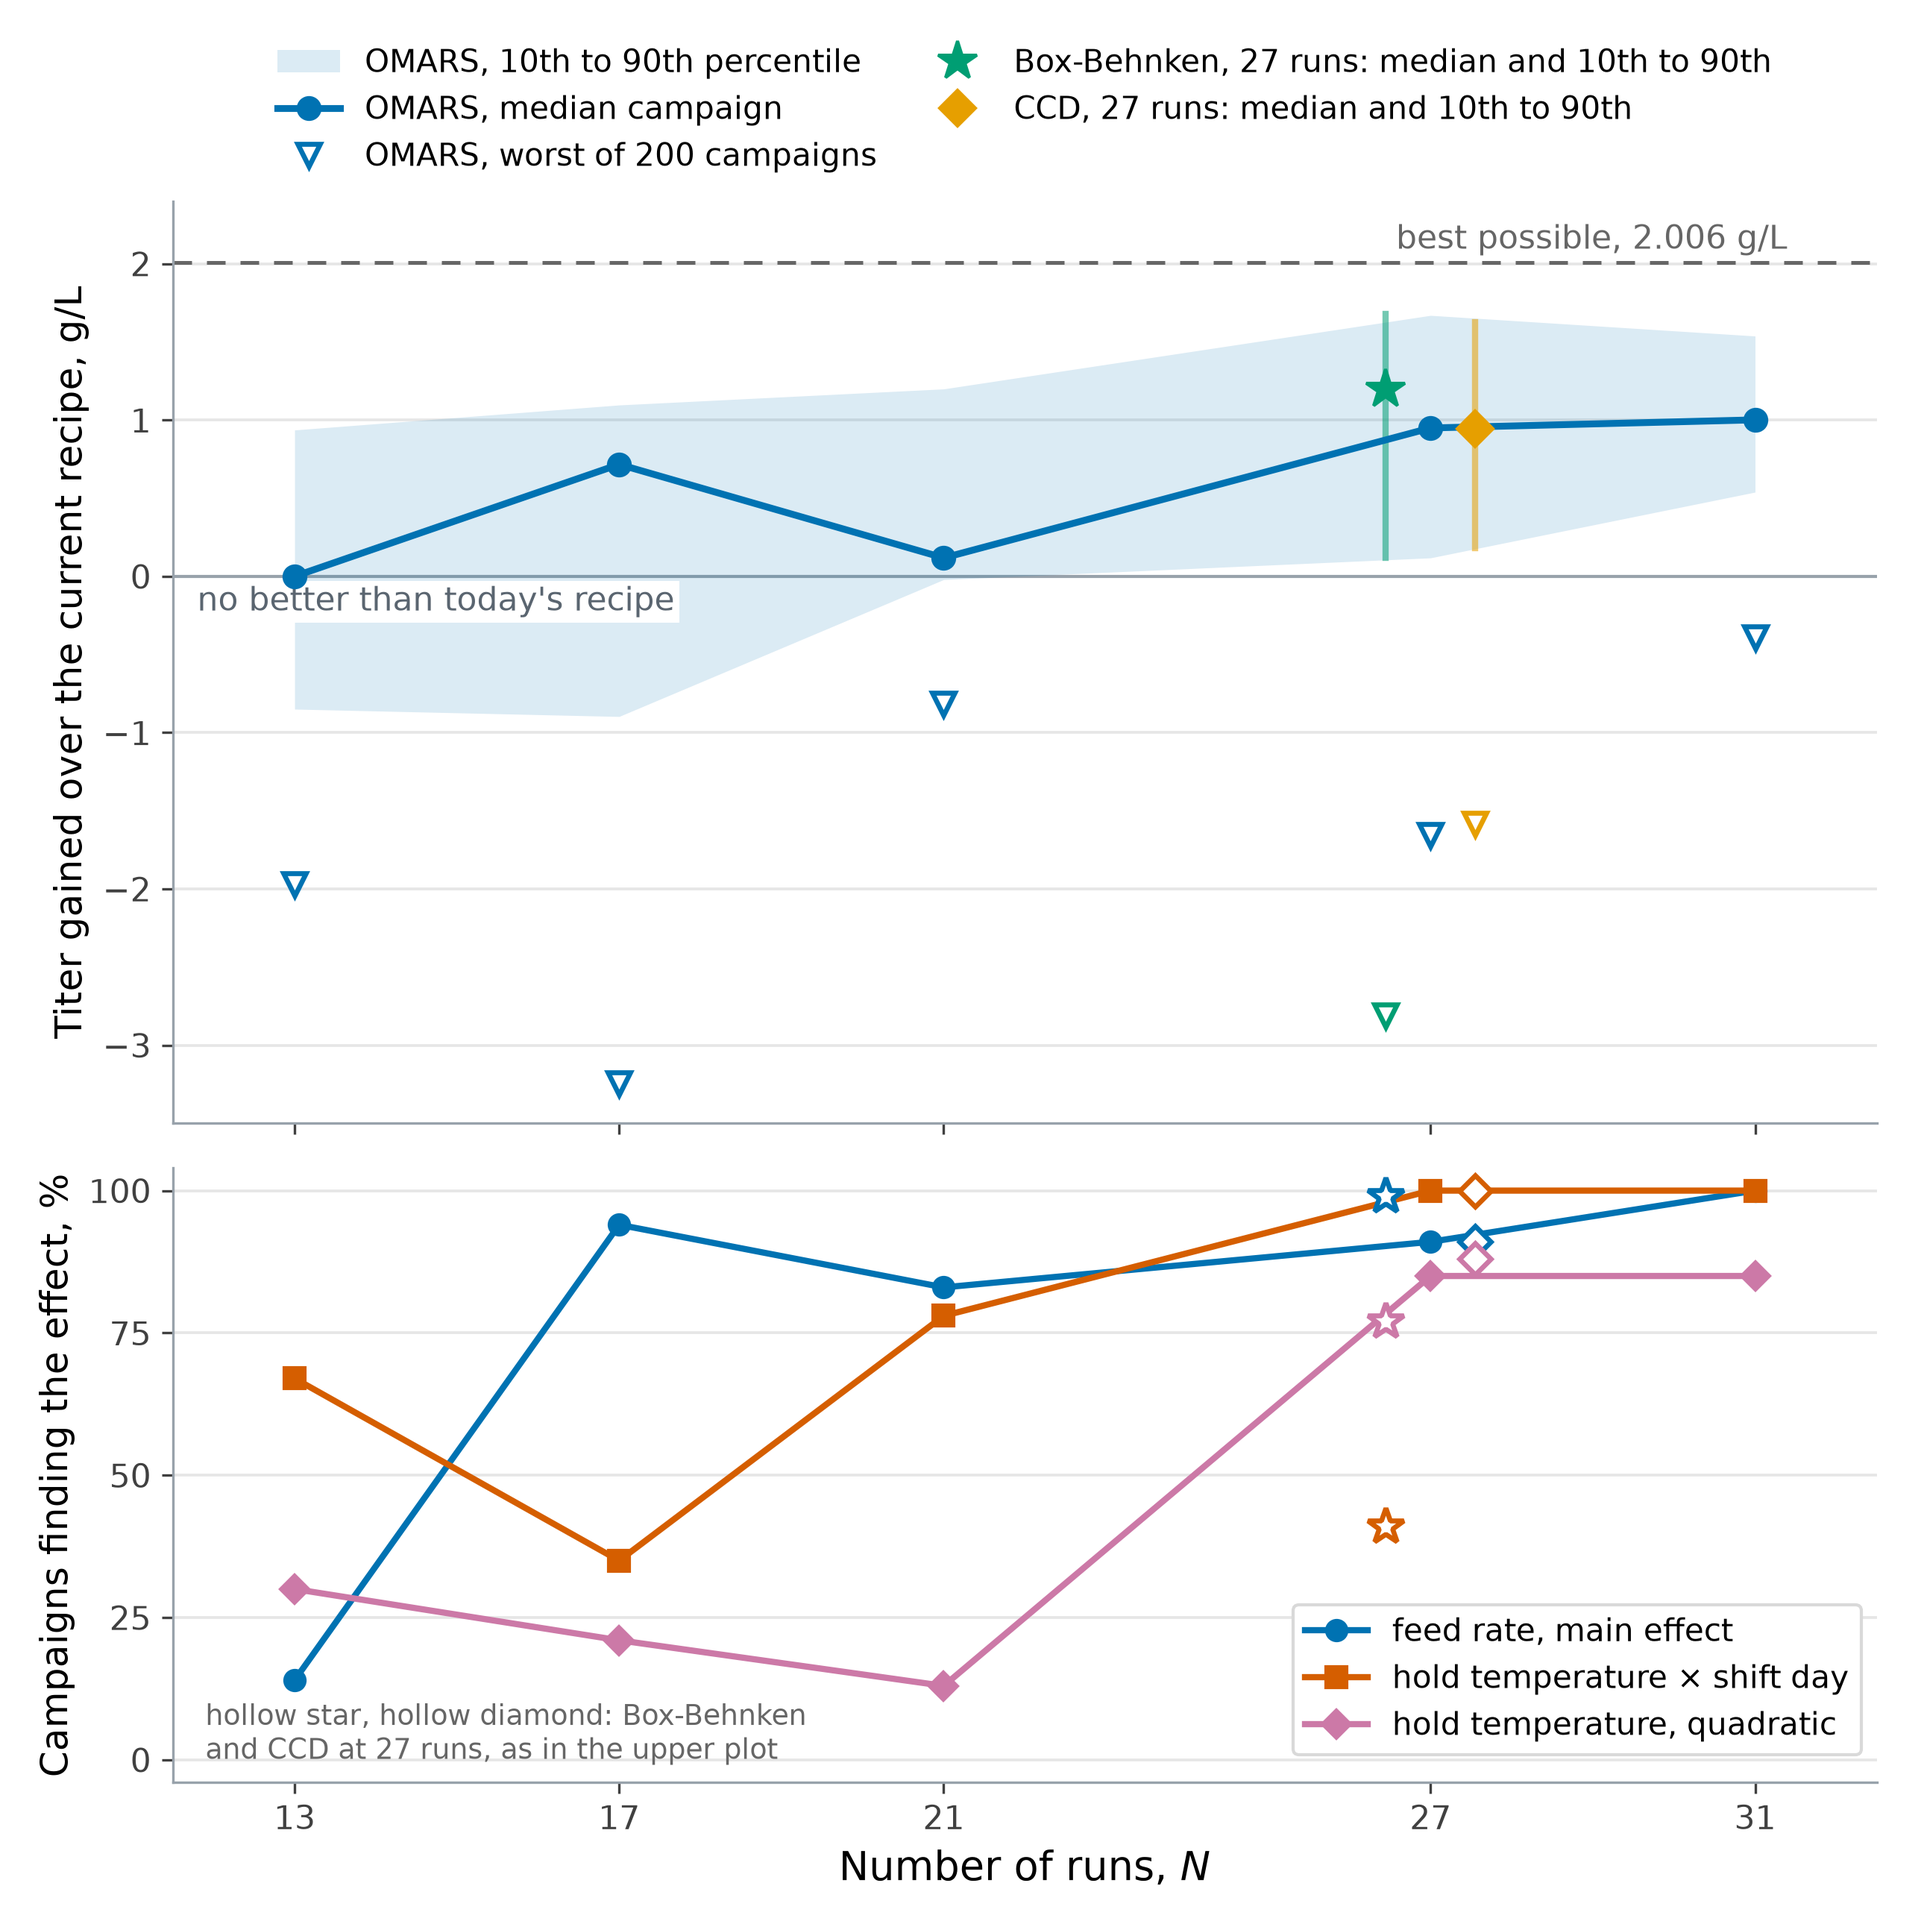
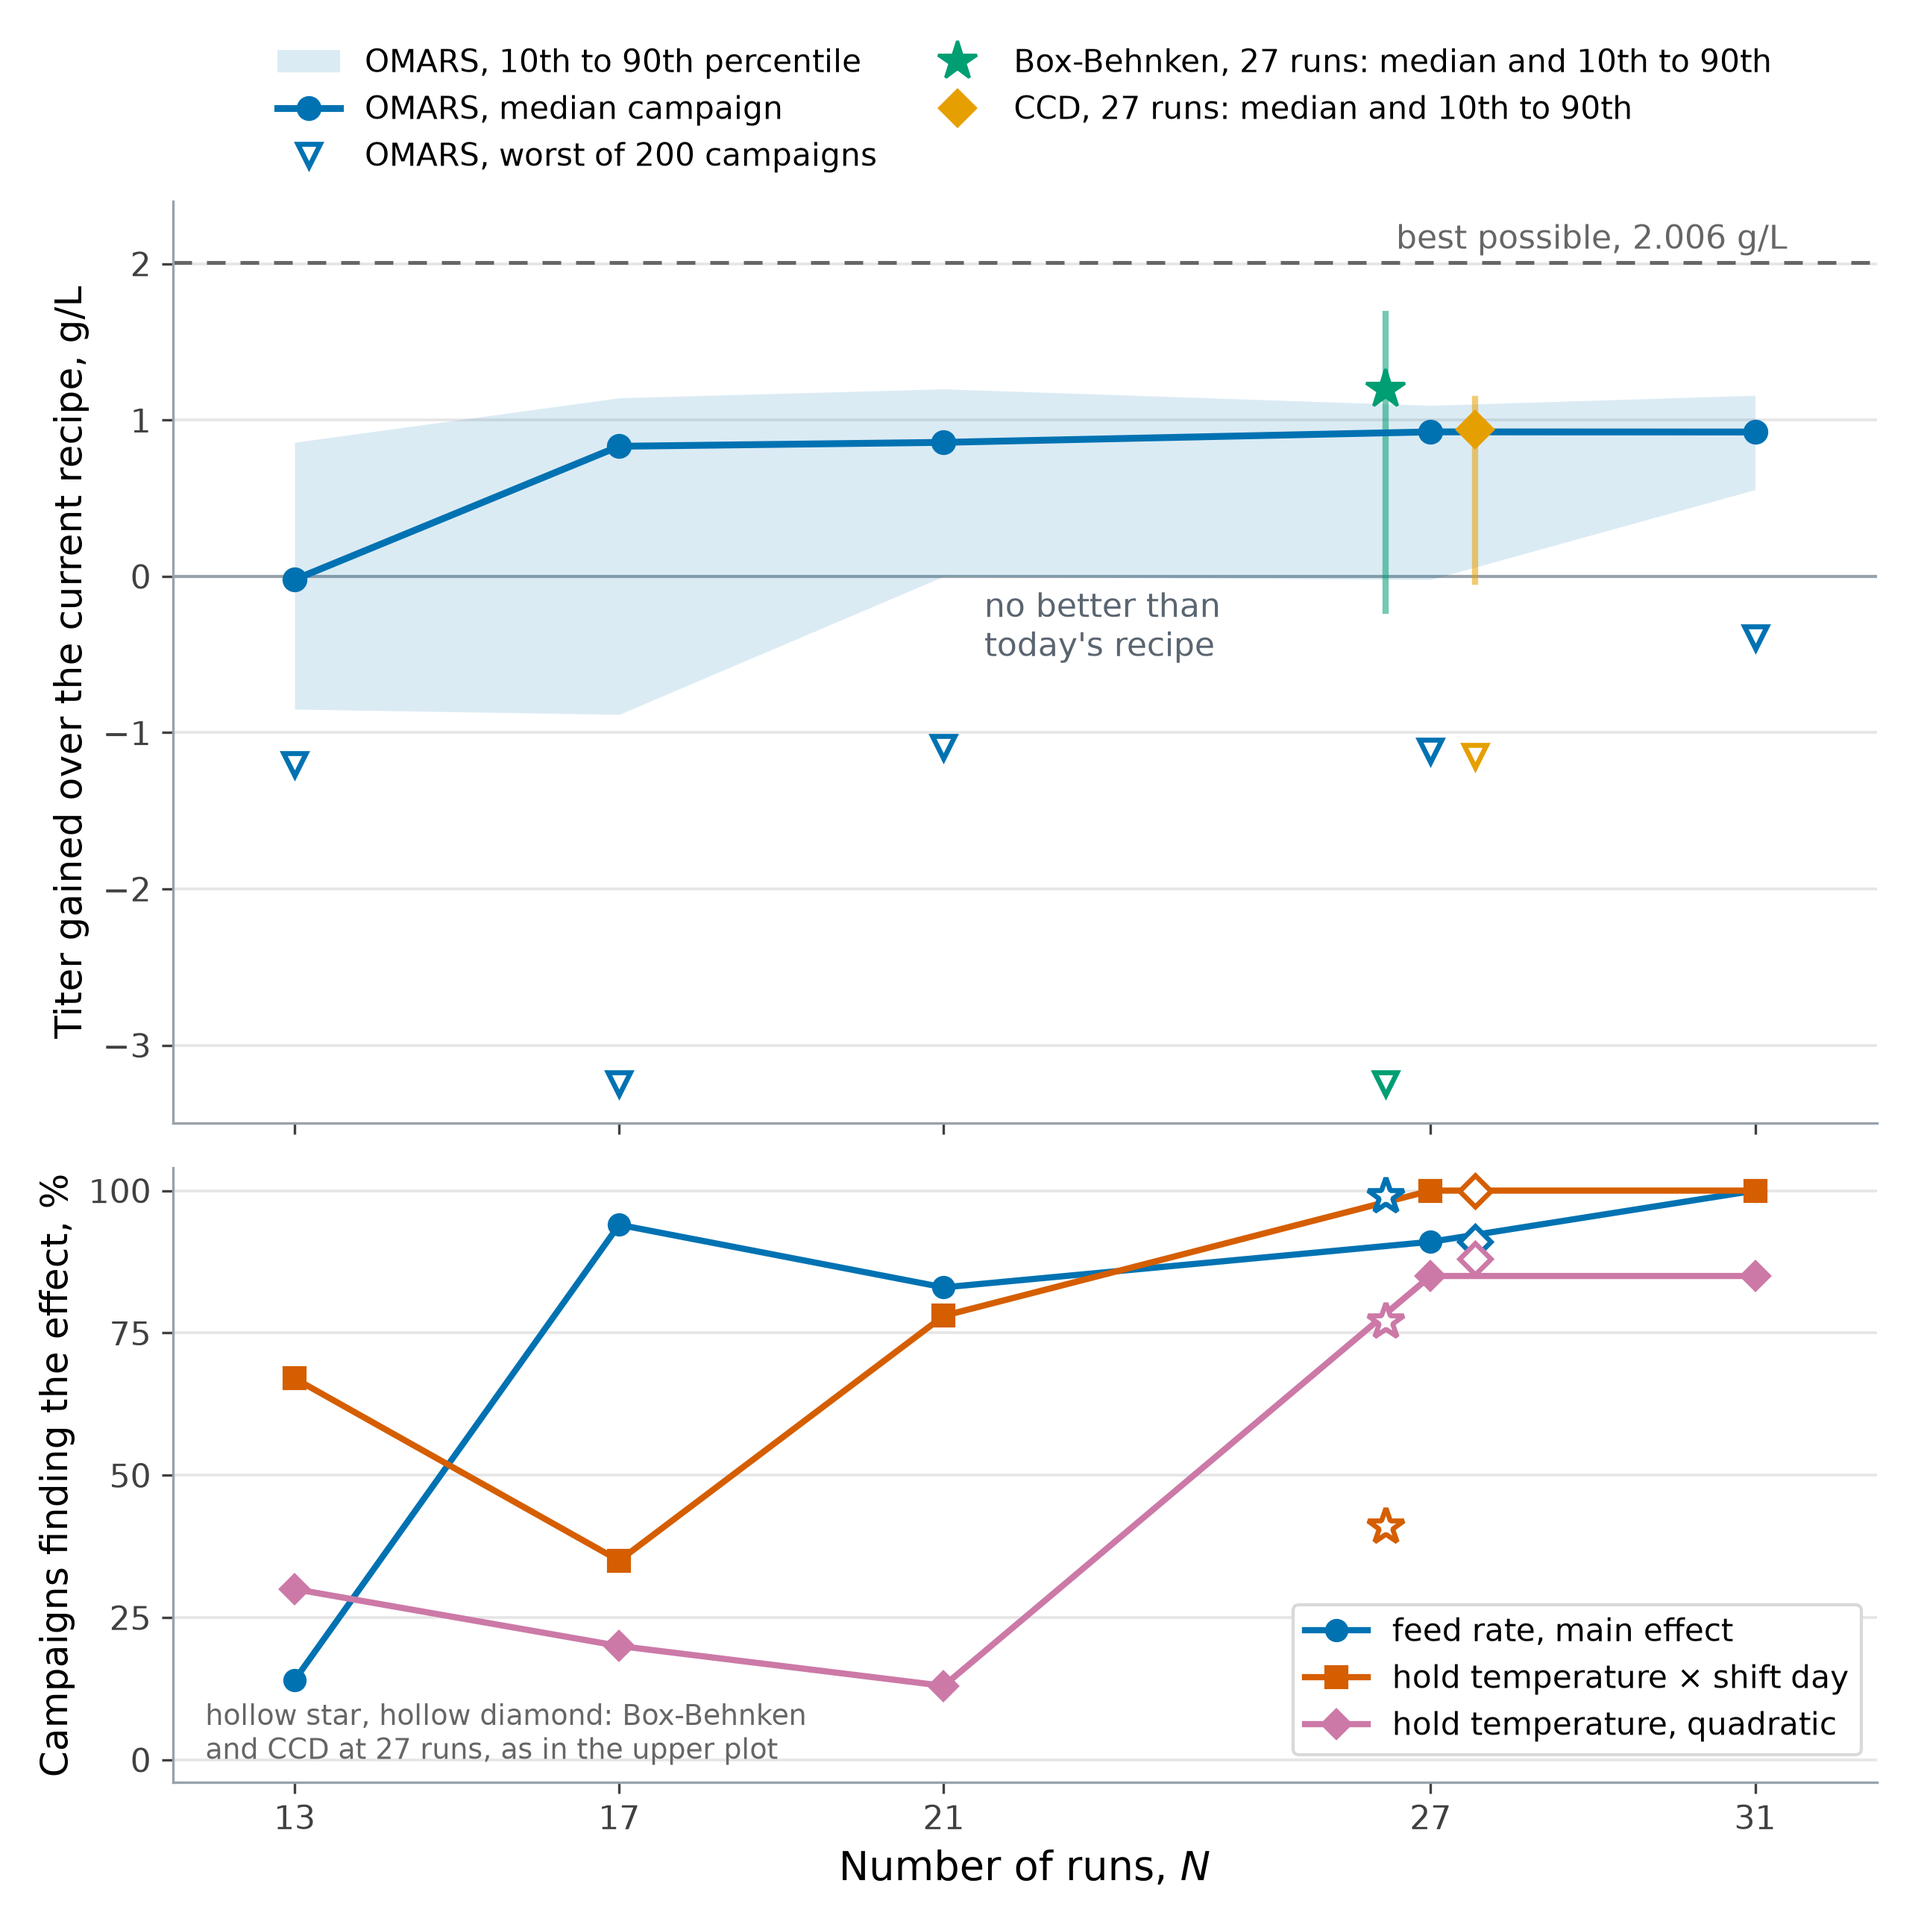
OMARS worked study: find the fitted model's true maximum
The recommended recipe came from scipy's Powell method with bounds, which
stalls once its search directions run into the bounds: on the five-term
model it stopped at a hold of 30.13 C, below the model's maximum at
30.64 C (predicted 8.872 g/L, not 8.662). Every campaign in the trade-off
data used the same search.

The search now evaluates the model at 11 levels per factor and refines
the best point with L-BFGS-B, which keeps to the bounds; a 41-level grid
confirms the maximum for the study's model, its marginal refit and the
best second-order approximation of the process.

- omars_worked_study_common.py: the same search as the book, and the
  checked recommendation (30.64 C, true titer 8.605 g/L).
- omars_worked_study_data.py: the same search for every campaign; the
  literals now print at four significant figures, as the book's table
  quotes them.
- omars-worked-study-tradeoff.py: the regenerated literals, and the
  zero-line label moved off the 13-run band into empty space.
- Both PNGs redrawn with matplotlib's default rc. The effects, plan and
  titer figures do not depend on the recommendation and redraw
  byte-identical.

Claude-Session: https://claude.ai/code/session_01VH72wW3LwaRHo54dV2z5rL

diff --git a/doe/omars-worked-study-tradeoff.py b/doe/omars-worked-study-tradeoff.py
@@ -22,19 +22,19 @@ import matplotlib.pyplot as plt
 # two hundred campaigns per design, and how often each of four real effects was found;
 # the figure plots three of them.
 GAINS = {
-    "OMARS 13": {"runs": 13, "mean": 0.0445, "p10": -0.8496, "p50": 0.0000, "p90": 0.9364, "worst": -1.9725,
+    "OMARS 13": {"runs": 13, "mean": 0.08711, "p10": -0.8497, "p50": -0.02071, "p90": 0.8573, "worst": -1.201,
                  "found": {"feed_rate": 0.14, "hold_temp^2": 0.30, "hold_temp:shift_day": 0.67, "shift_day^2": 0.01}},
-    "OMARS 17": {"runs": 17, "mean": 0.3480, "p10": -0.8967, "p50": 0.7165, "p90": 1.0963, "worst": -3.2462,
-                 "found": {"feed_rate": 0.94, "hold_temp^2": 0.21, "hold_temp:shift_day": 0.35, "shift_day^2": 0.30}},
-    "OMARS 21": {"runs": 21, "mean": 0.3522, "p10": -0.0207, "p50": 0.1181, "p90": 1.1991, "worst": -0.8178,
+    "OMARS 17": {"runs": 17, "mean": 0.4361, "p10": -0.8834, "p50": 0.8323, "p90": 1.142, "worst": -3.246,
+                 "found": {"feed_rate": 0.94, "hold_temp^2": 0.20, "hold_temp:shift_day": 0.35, "shift_day^2": 0.34}},
+    "OMARS 21": {"runs": 21, "mean": 0.6954, "p10": 0.000, "p50": 0.8573, "p90": 1.199, "worst": -1.093,
                  "found": {"feed_rate": 0.83, "hold_temp^2": 0.13, "hold_temp:shift_day": 0.78, "shift_day^2": 0.12}},
-    "OMARS 27": {"runs": 27, "mean": 0.8867, "p10": 0.1181, "p50": 0.9494, "p90": 1.6696, "worst": -1.6551,
+    "OMARS 27": {"runs": 27, "mean": 0.7612, "p10": -0.02071, "p50": 0.9244, "p90": 1.094, "worst": -1.118,
                  "found": {"feed_rate": 0.91, "hold_temp^2": 0.85, "hold_temp:shift_day": 1.00, "shift_day^2": 0.04}},
-    "OMARS 31": {"runs": 31, "mean": 0.9209, "p10": 0.5388, "p50": 1.0013, "p90": 1.5377, "worst": -0.3901,
+    "OMARS 31": {"runs": 31, "mean": 0.8506, "p10": 0.5546, "p50": 0.9236, "p90": 1.158, "worst": -0.3901,
                  "found": {"feed_rate": 1.00, "hold_temp^2": 0.85, "hold_temp:shift_day": 1.00, "shift_day^2": 0.23}},
-    "Box-Behnken 27": {"runs": 27, "mean": 0.9277, "p10": 0.1181, "p50": 1.1989, "p90": 1.6771, "worst": -2.8099,
+    "Box-Behnken 27": {"runs": 27, "mean": 0.8848, "p10": -0.2215, "p50": 1.199, "p90": 1.677, "worst": -3.246,
                        "found": {"feed_rate": 0.99, "hold_temp^2": 0.77, "hold_temp:shift_day": 0.41, "shift_day^2": 0.06}},
-    "CCD 27": {"runs": 27, "mean": 0.8607, "p10": 0.1818, "p50": 0.9424, "p90": 1.6284, "worst": -1.5835,
+    "CCD 27": {"runs": 27, "mean": 0.7597, "p10": -0.03423, "p50": 0.9403, "p90": 1.133, "worst": -1.149,
                "found": {"feed_rate": 0.91, "hold_temp^2": 0.88, "hold_temp:shift_day": 1.00, "shift_day^2": 0.09}},
 }
 PRIZE = 2.0064
@@ -53,8 +53,9 @@ ax.axhline(PRIZE, color=GREY, lw=1.2, ls=(0, (5, 4)), zorder=1)
 ax.text(31.4, PRIZE + 0.04, f"best possible, {PRIZE:.3f} g/L", ha="right", va="bottom",
         fontsize=10.5, color=GREY)
 ax.axhline(0, color="#98A2AB", lw=1.0, zorder=1)
-ax.text(11.8, -0.06, "no better than today's recipe", ha="left", va="top", fontsize=10.5,
-        color="#5A6570", bbox={"facecolor": "white", "edgecolor": "none", "pad": 1.5})
+# In the gap below the zero line between the 21- and 27-run marks, clear of every band and bar.
+ax.text(21.5, -0.08, "no better than\ntoday's recipe", ha="left", va="top", fontsize=10.5,
+        color="#5A6570")
 
 ax.fill_between(runs, [v["p10"] for v in omars], [v["p90"] for v in omars],
                 color=BLUE, alpha=0.14, lw=0, zorder=2, label="OMARS, 10th to 90th percentile")

diff --git a/doe/omars_worked_study_common.py b/doe/omars_worked_study_common.py
@@ -92,6 +92,12 @@ def model_matrix(terms, C):
     return np.column_stack(cols)
 
 
+def search(f, n):
+    """Minimise f over the region: the best of 11 levels per factor, refined within bounds."""
+    start = min(itertools.product(np.linspace(-1, 1, 11), repeat=n), key=f)
+    return optimize.minimize(f, start, method="L-BFGS-B", bounds=[(-1, 1)] * n)
+
+
 def second_order_columns(C):
     cols = [C[:, i] ** 2 for i in range(C.shape[1])]
     cols += [C[:, i] * C[:, j] for i, j in itertools.combinations(range(C.shape[1]), 2)]
@@ -183,9 +189,7 @@ def study():
         x[moved] = z
         return -float((model_matrix(terms, x) @ bs).ravel()[0])
 
-    starts = [np.zeros(len(moved)), -np.ones(len(moved)), np.ones(len(moved))]
-    opt = min((optimize.minimize(predicted, s, method="Powell", bounds=[(-1, 1)] * len(moved))
-               for s in starts), key=lambda r: r.fun)
+    opt = search(predicted, len(moved))
     x_rec = np.zeros(4)
     x_rec[moved] = opt.x
 
@@ -198,9 +202,9 @@ def study():
     _check("titer min", plan["titer"].min(), 4.056)
     _check("titer max", plan["titer"].max(), 9.085)
     _check("parallel-run effect", b[1], -0.1470)
-    _check("recommended hold", decode(x_rec)["hold_temp"], 30.13)
+    _check("recommended hold", decode(x_rec)["hold_temp"], 30.64)
     _check("current titer", truth(np.zeros(4)), 7.436)
-    _check("recommended titer", truth(x_rec), 9.037)
+    _check("recommended titer", truth(x_rec), 8.605)
     _check("best titer", -best.fun, 9.442)
     assert list(plan.index[is_cp]) == [6, 12, 22, 26], "centre runs moved"
     assert result.active_main_effects == ["feed_rate"]

diff --git a/doe/omars_worked_study_data.py b/doe/omars_worked_study_data.py
@@ -95,9 +95,12 @@ def campaign_gain(C, seed):
         x = np.zeros(4); x[moved] = z
         return -float((model_matrix(terms, x) @ b).ravel()[0])
 
-    starts = [np.zeros(len(moved)), -np.ones(len(moved)), np.ones(len(moved))]
-    opt = min((optimize.minimize(predicted, s, method="Powell", bounds=[(-1, 1)] * len(moved)) for s in starts),
-              key=lambda r: r.fun)
+    # The model's maximum: the best point of an 11-level grid over the region, refined with
+    # L-BFGS-B, as the book does. The grid is evaluated in one matrix product for speed.
+    grid = np.array(list(itertools.product(np.linspace(-1, 1, 11), repeat=len(moved))))
+    G = np.zeros((len(grid), 4)); G[:, moved] = grid
+    start = grid[np.argmax(model_matrix(terms, G) @ b)]
+    opt = optimize.minimize(predicted, start, method="L-BFGS-B", bounds=[(-1, 1)] * len(moved))
     x = np.zeros(4); x[moved] = opt.x
     return truth(x) - T_NOW, found
 
@@ -129,8 +132,8 @@ for name, C in designs.items():
         for t in KEY_TERMS:
             hits[t] += t in found
     q = np.percentile(gains, [10, 50, 90])
-    print(f'    "{name}": {{"runs": {len(C)}, "mean": {np.mean(gains):.4f}, "p10": {q[0]:.4f}, '
-          f'"p50": {q[1]:.4f}, "p90": {q[2]:.4f}, "worst": {np.min(gains):.4f}, '
+    print(f'    "{name}": {{"runs": {len(C)}, "mean": {np.mean(gains):#.4g}, "p10": {q[0]:#.4g}, '
+          f'"p50": {q[1]:#.4g}, "p90": {q[2]:#.4g}, "worst": {np.min(gains):#.4g}, '
           f'"found": {{' + ", ".join(f'"{t}": {hits[t] / N_SEEDS:.2f}' for t in KEY_TERMS) + "}},", flush=True)
 print("}")
 print(f"PRIZE = {PRIZE:.4f}")
